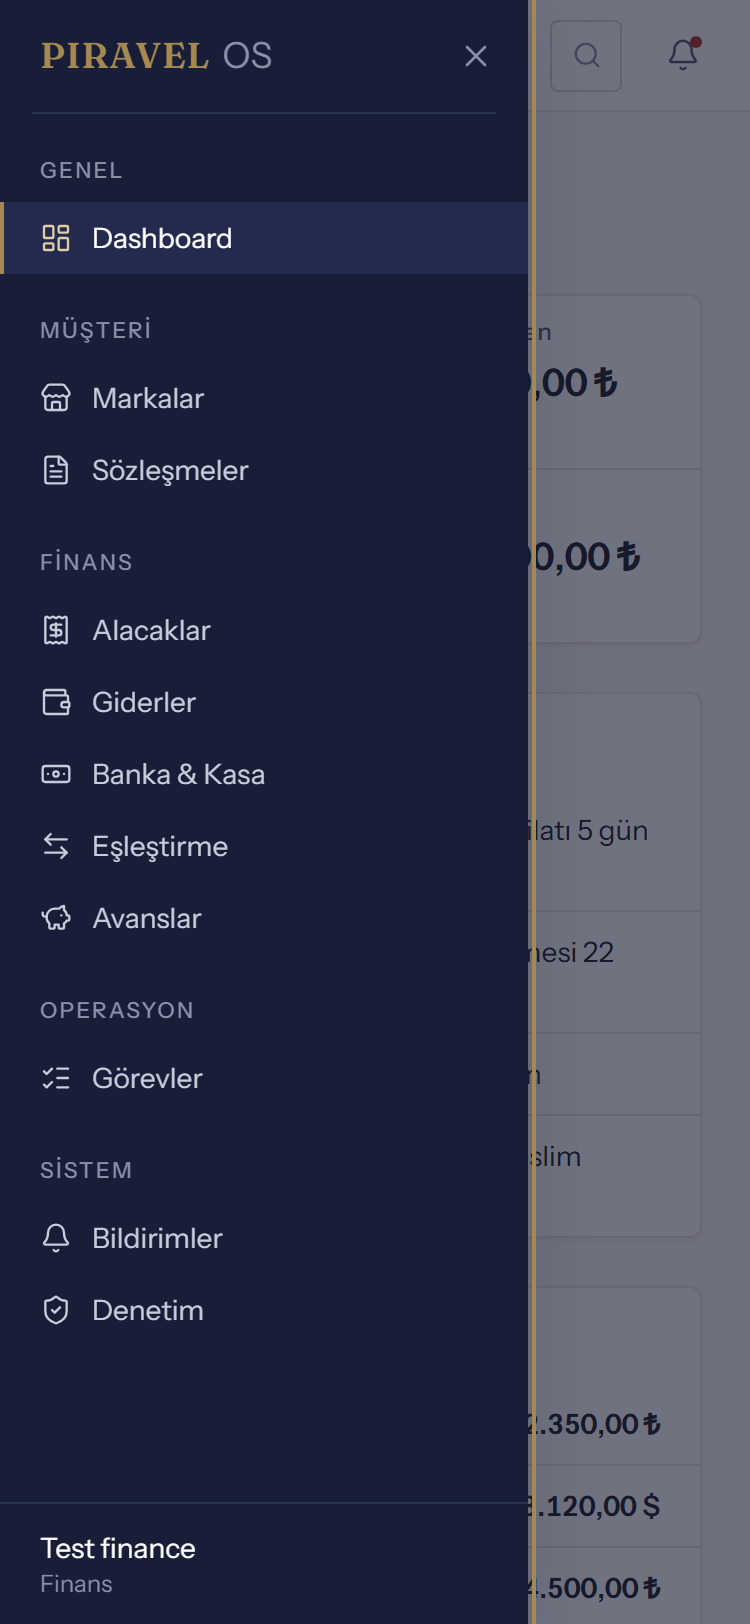
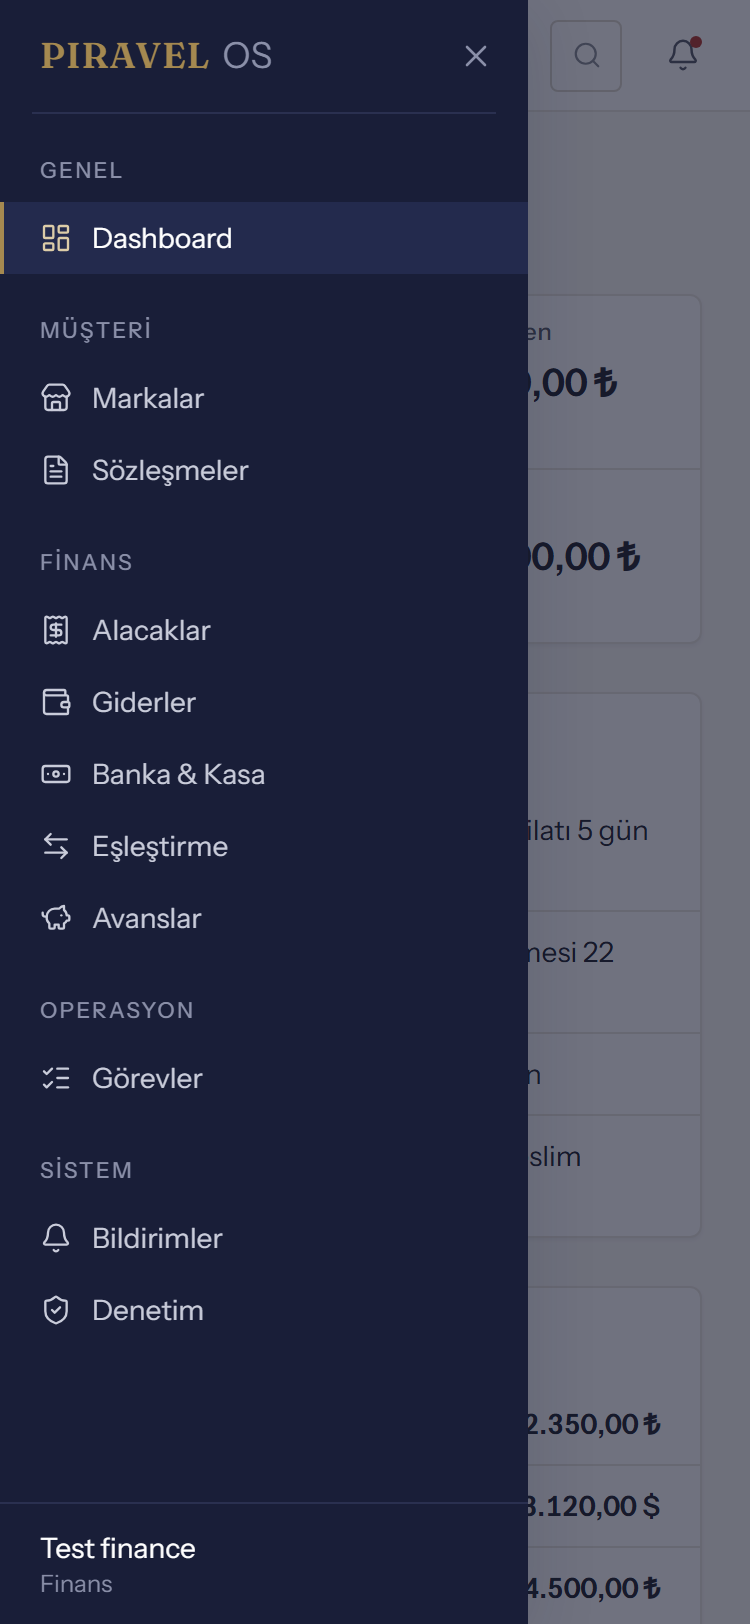
Drawer paneli odak halkası: programatik odakta görünmesin
tabindex="-1" olan kapsayıcılar global focus-visible kuralından çıkarıldı.
Bunlara odak yalnız programatik verilir (drawer açılışı); görünür halka
çizmek fareyle açan kullanıcıda kalıcı bir süs gibi görünüyordu.

Doğrulandı: panel outline "none", Tab ile kapatma düğmesine geçildiğinde
halka 2px ve altın (#A58950) — klavye erişilebilirliği korunuyor.

Changed region(s): [[0.7053, 0.0, 0.736, 1.0]]

diff --git a/src/app/globals.css b/src/app/globals.css
@@ -77,11 +77,14 @@ body {
   font-variant-numeric: tabular-nums lining-nums;
 }
 
-/* Odak halkası: açık zeminde lacivert, koyu kabukta altın (06 §15) */
-:focus-visible {
+/* Odak halkası: açık zeminde lacivert, koyu kabukta altın (06 §15).
+   tabindex="-1" olan kapsayıcılar hariç tutulur: bunlara odak yalnız
+   PROGRAMATİK olarak verilir (drawer açılışı gibi) ve görünür bir halka
+   çizmek, fareyle açan kullanıcıda kalıcı bir süs gibi görünür. */
+:focus-visible:not([tabindex="-1"]) {
   outline: 2px solid var(--color-navy-500);
   outline-offset: 2px;
 }
-[data-shell] :focus-visible {
+[data-shell] :focus-visible:not([tabindex="-1"]) {
   outline-color: var(--color-gold-500);
 }
